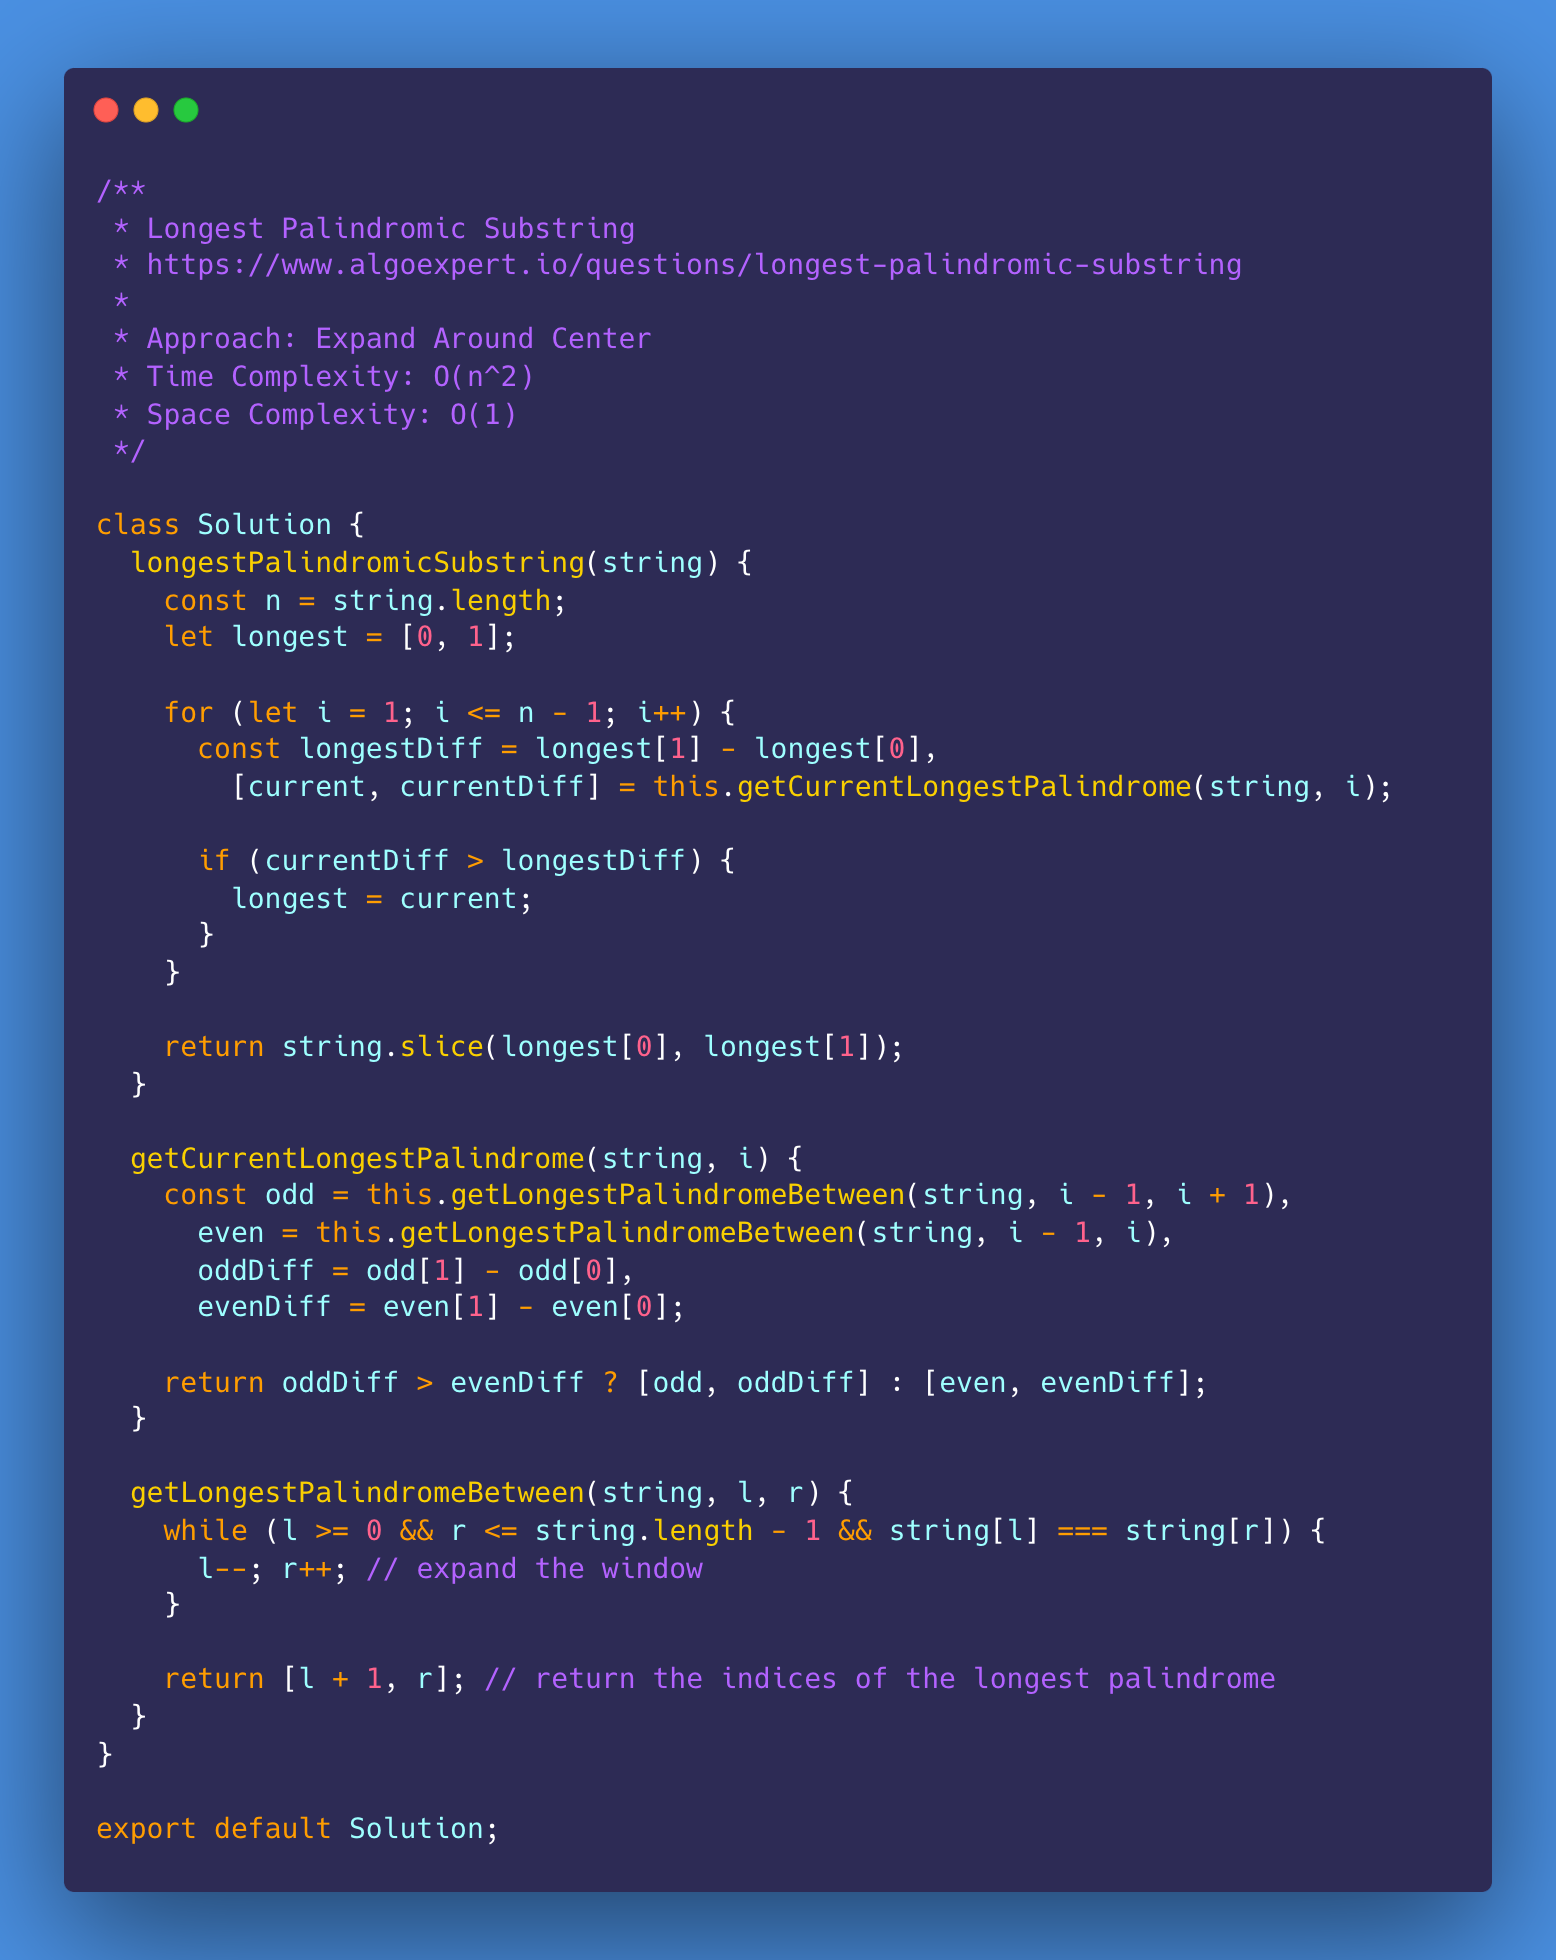
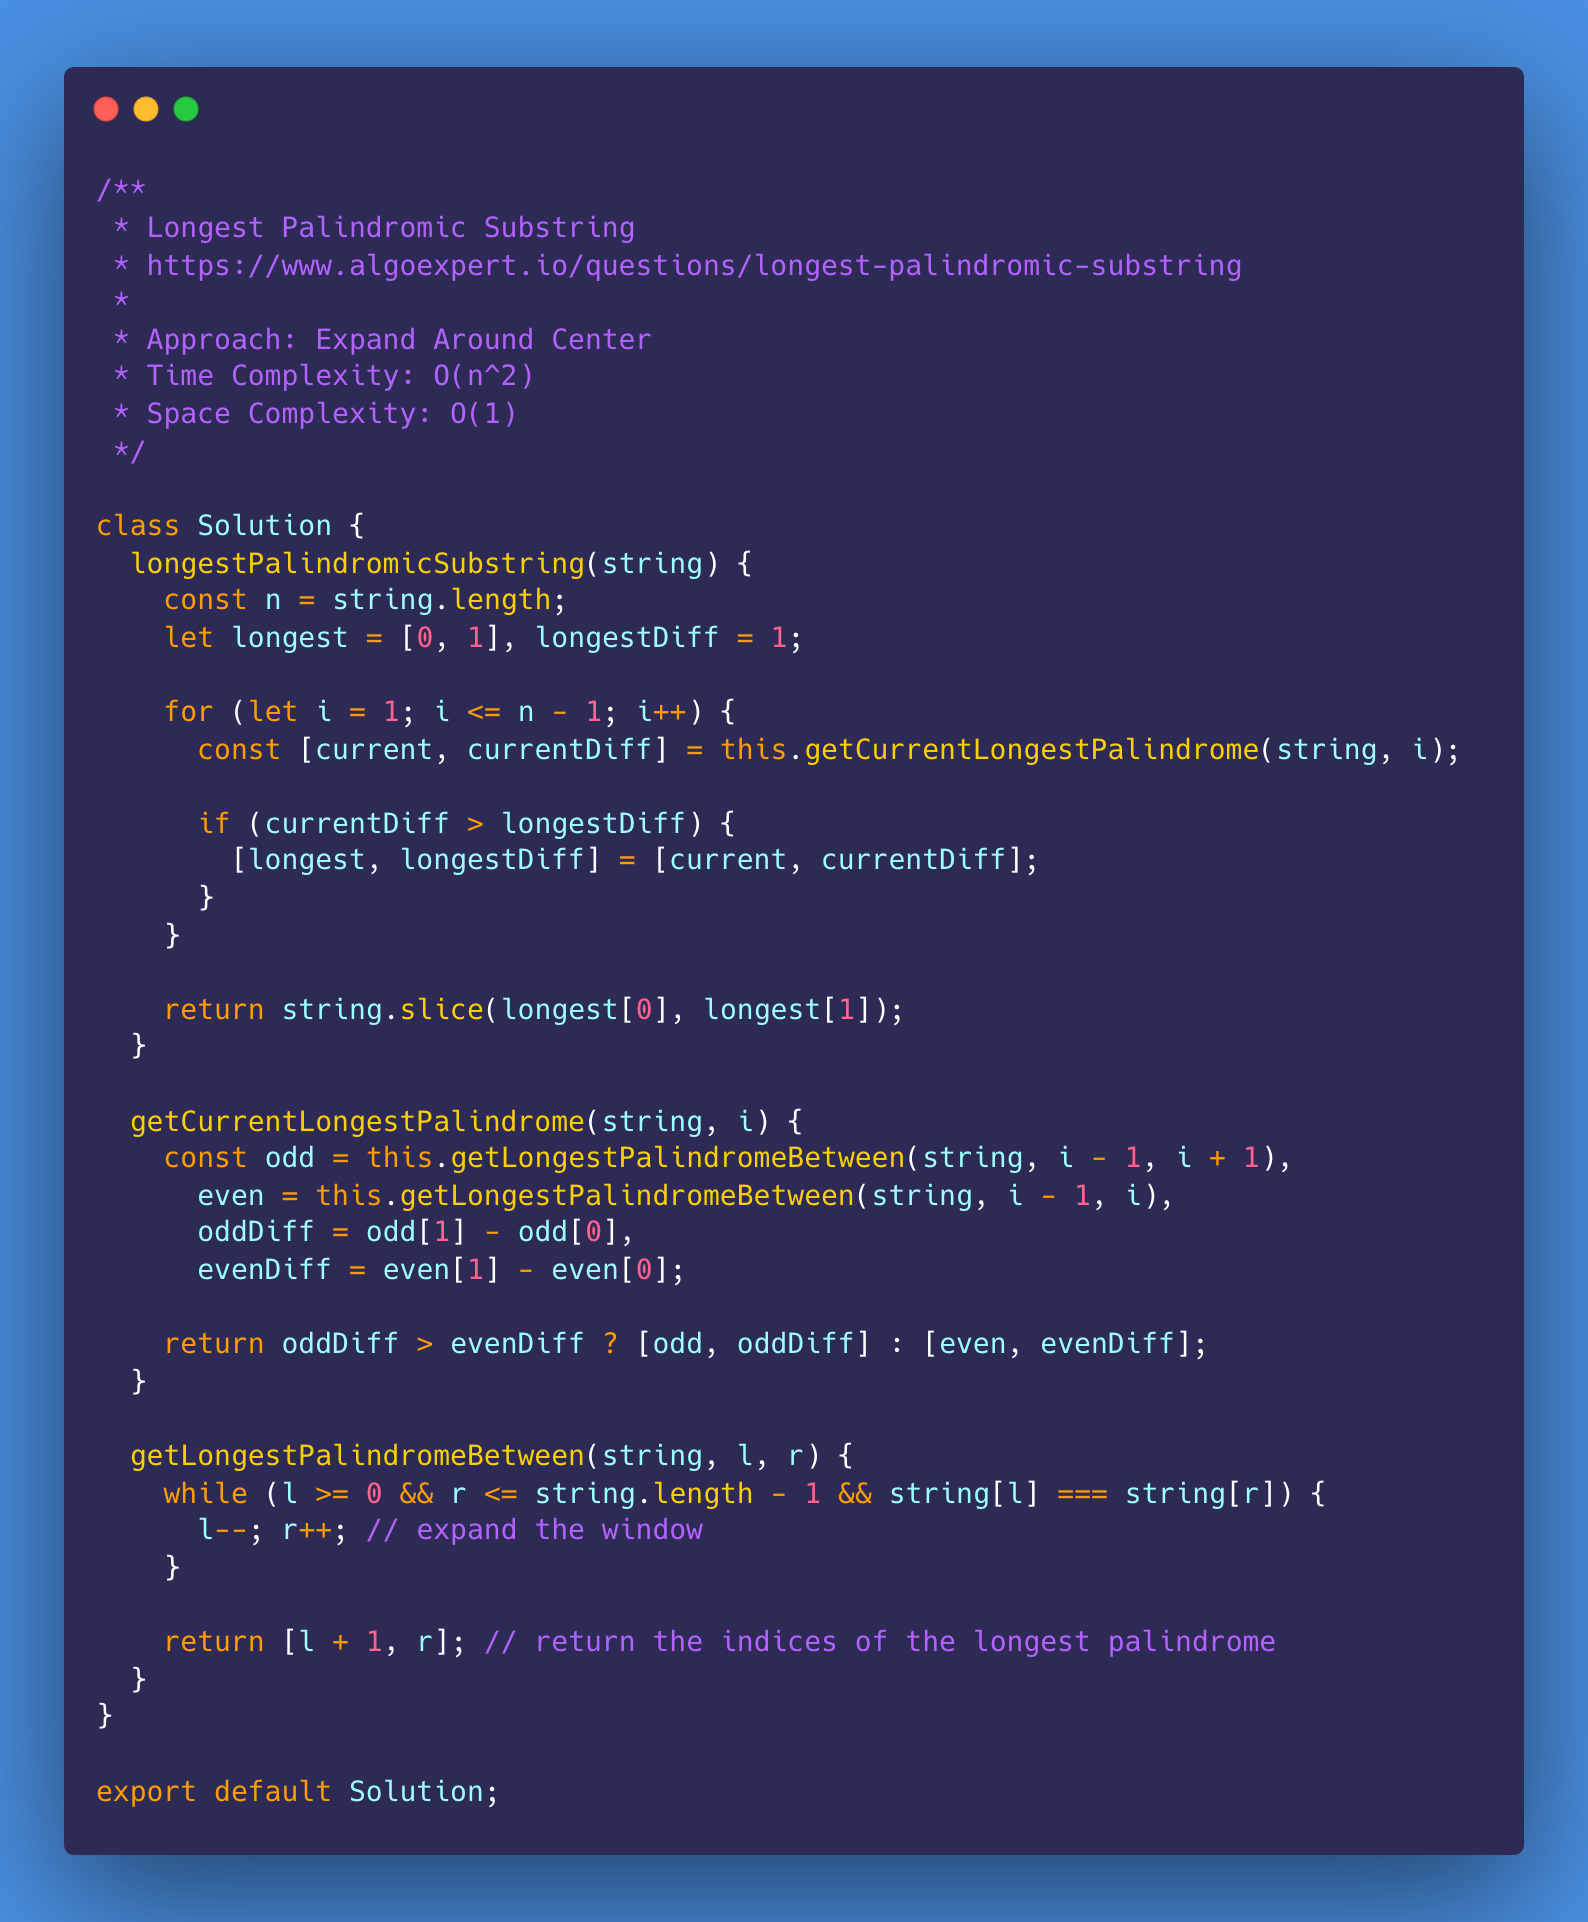
code improvement

diff --git a/002-algoexpert/035-longest-palindromic-substring/002-solution/Solution.js b/002-algoexpert/035-longest-palindromic-substring/002-solution/Solution.js
@@ -10,14 +10,13 @@
 class Solution {
   longestPalindromicSubstring(string) {
     const n = string.length;
-    let longest = [0, 1];
+    let longest = [0, 1], longestDiff = 1;
 
     for (let i = 1; i <= n - 1; i++) {
-      const longestDiff = longest[1] - longest[0],
-        [current, currentDiff] = this.getCurrentLongestPalindrome(string, i);
+      const [current, currentDiff] = this.getCurrentLongestPalindrome(string, i);
 
       if (currentDiff > longestDiff) {
-        longest = current;
+        [longest, longestDiff] = [current, currentDiff];
       }
     }
 
